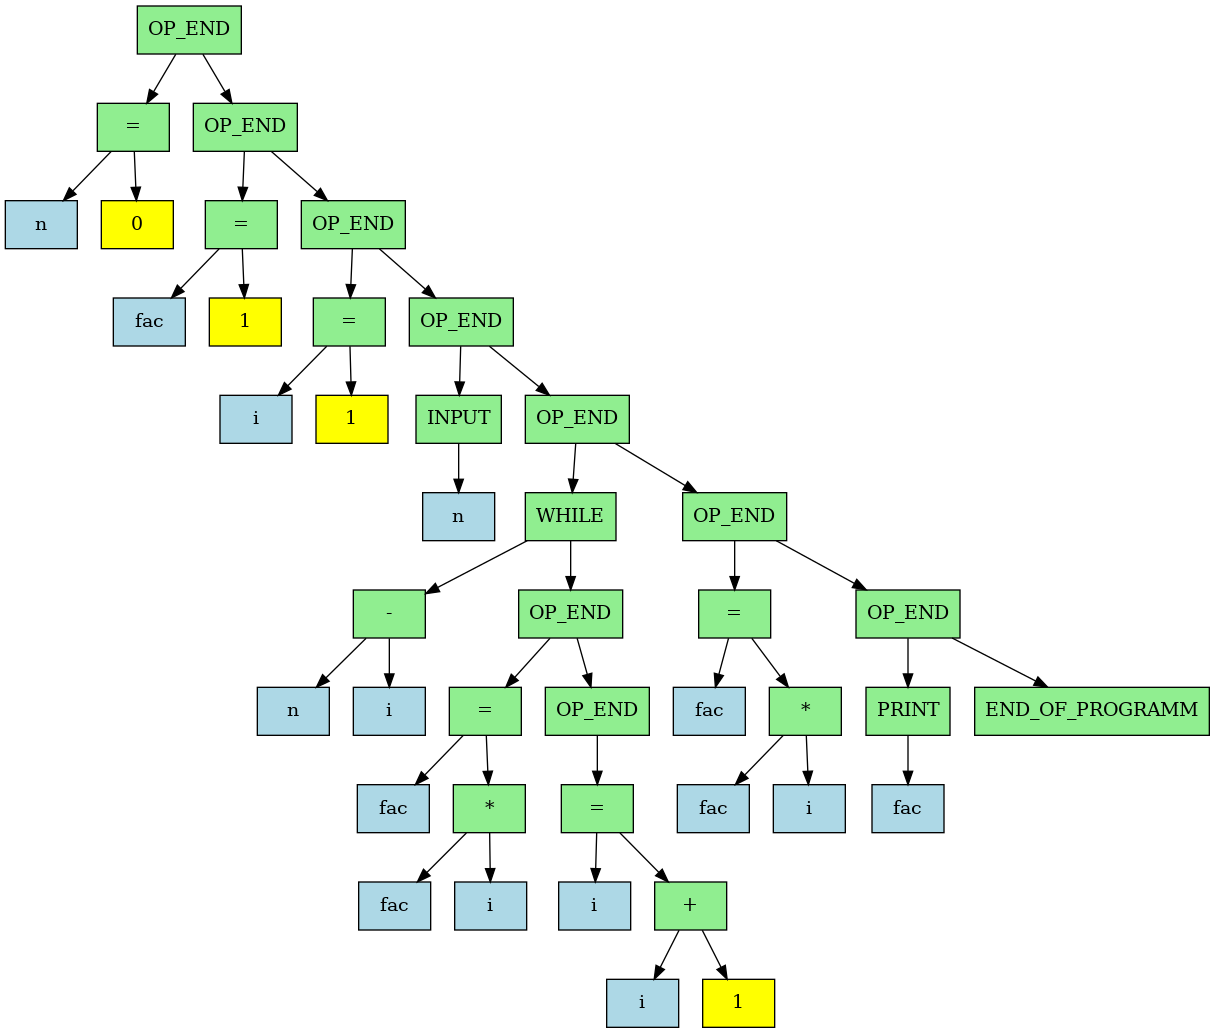
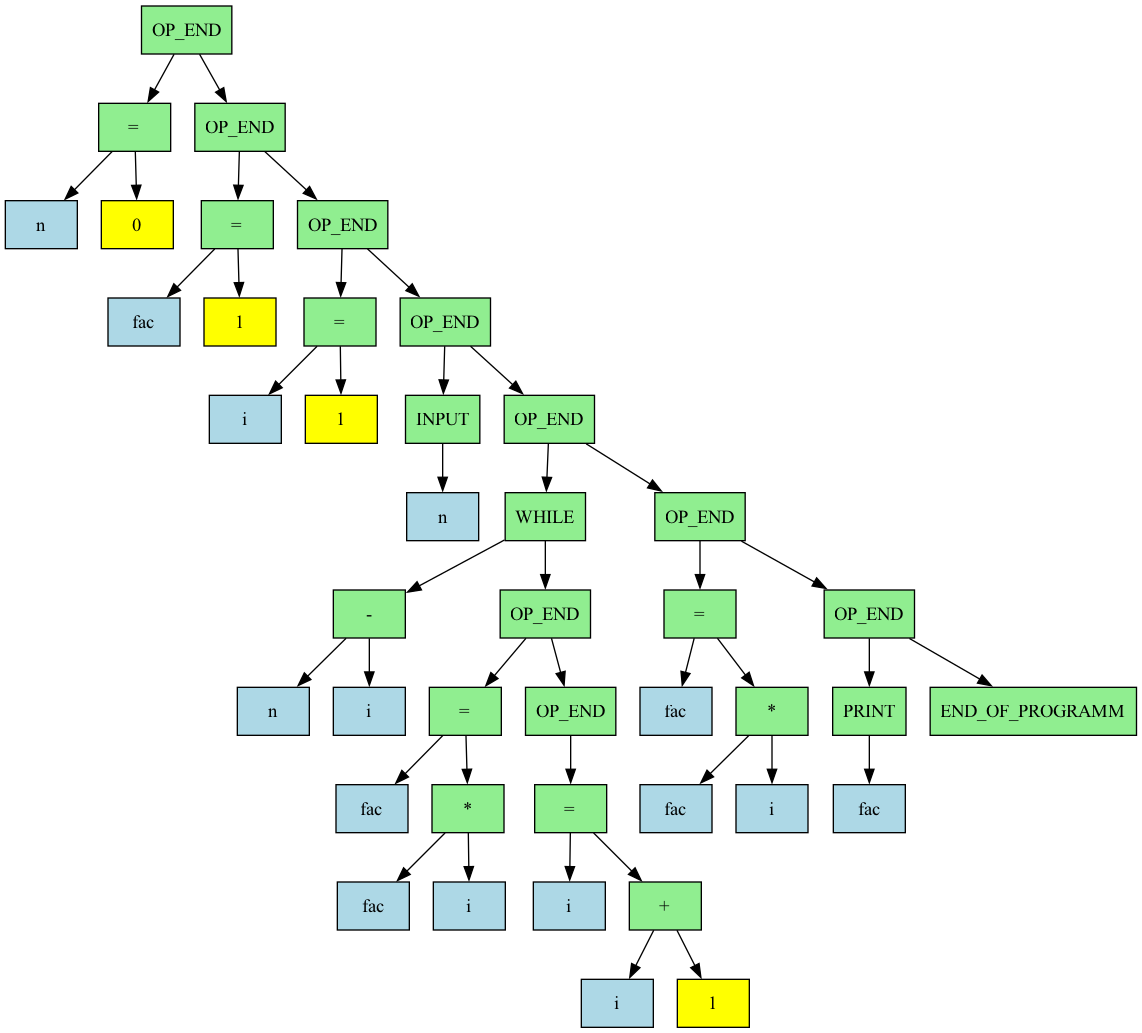
[debagging] fixed buffer overflow

diff --git a/src/asm/asm.cpp b/src/asm/asm.cpp
@@ -16,20 +16,13 @@ long long int read_text(FILE* input_address, char** buffer)
     if(fstat(fileno(input_address), &statistics) == -1)
         return 0;
 
-    //printf("%ld\n", statistics.st_size);
-
-    *buffer = (char*) calloc(statistics.st_size, sizeof(char));
+    *buffer = (char*) calloc(statistics.st_size + 1, sizeof(char));
     if (*buffer == NULL)
         return 0;
 
     number_of_symbols = fread(*buffer, sizeof(char), statistics.st_size, input_address);
+    (*buffer)[number_of_symbols] = '\0'; // Гарантируем нуль-терминатор
 
-    /*
-    for (long long int i = 0; i < number_of_symbols; i++)
-    {
-        putchar((*buffer)[i]);
-    }
-    */
     return number_of_symbols;
 }
 
@@ -83,9 +76,9 @@ bool make_code_massive(char* buffer, int** mashine_code, int** labels, int* star
     bool error = false;
     char* buffer_end = buffer + number_of_symbols*sizeof(char);
 
-    while(buffer < buffer_end)
+    while(buffer < buffer_end && *buffer != '\0')
     {
-        if (sscanf(buffer,"%s", command) != 1)
+        if (sscanf(buffer,"%199s", command) != 1)
             error = 1;
 
         //printf("cmd = '%s'\n", command);
